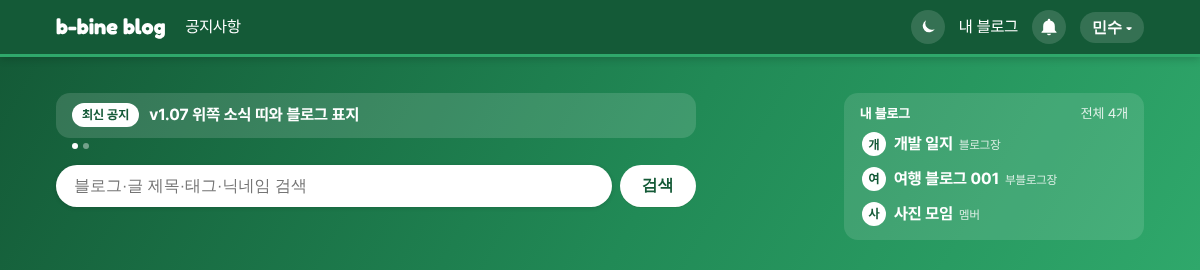
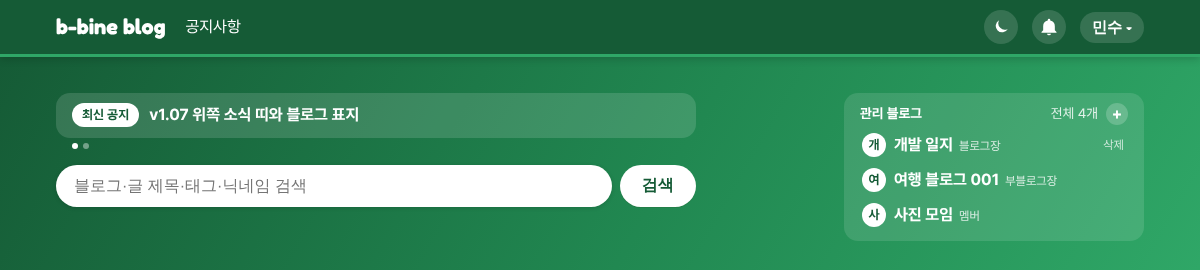
위쪽 띠 오른쪽을 '관리 블로그'로, + 버튼(블로그 만들기)과 블로그장 블로그 삭제(폐쇄 화면으로) 추가 (D-117, BLG-09)
Claude-Session: https://claude.ai/code/session_019Vb8HvN1w7aCh1FhFDLzpU

diff --git a/src/main/resources/static/js/hero-my-blogs.js b/src/main/resources/static/js/hero-my-blogs.js
@@ -1,4 +1,4 @@
-// 메인 위쪽 띠 오른쪽의 내 블로그 (2026-10-13 사용자 요청, BLG-06).
+// 메인 위쪽 띠 오른쪽의 관리 블로그 (2026-10-13 사용자 요청, BLG-06, D-117). + 버튼은 블로그 만들기, 블로그장 블로그에는 삭제(폐쇄) 링크.
 // 로그인하지 않았거나 운영·참여하는 블로그가 없으면 아무것도 보여 주지 않는다. 글자는 textContent로만 넣는다(D-64).
 (function () {
   'use strict';
@@ -17,6 +17,7 @@
   }
 
   function renderItem(blog) {
+    var row = el('div', 'hero-mine__row');
     var a = el('a', 'hero-mine__item');
     a.href = '/blog/' + encodeURIComponent(blog.address);
     a.appendChild(el('span', 'hero-mine__initial', Array.from(blog.name || '?')[0]));
@@ -24,7 +25,15 @@
     text.appendChild(el('span', 'hero-mine__name', blog.name));
     text.appendChild(el('span', 'hero-mine__role', ROLE_LABEL[blog.role] || ''));
     a.appendChild(text);
-    return a;
+    row.appendChild(a);
+    // 삭제는 블로그장만. 바로 지우지 않고 운영 화면의 위임·폐쇄 탭으로 보낸다(7일 뒤 폐쇄, 그 전 철회 가능 — FR-066~FR-078)
+    if (blog.role === 'OWNER' && blog.status === 'ACTIVE') {
+      var del = el('a', 'hero-mine__delete', '삭제');
+      del.href = '/blog/' + encodeURIComponent(blog.address) + '/manage?tab=owner';
+      del.setAttribute('aria-label', blog.name + ' 블로그 삭제(폐쇄)');
+      row.appendChild(del);
+    }
+    return row;
   }
 
   // 로그인하지 않았으면 401이 오고, 빈 곳으로 둔다
@@ -34,15 +43,23 @@
     if (!blogs.length) { return; }
     var head = el('div', 'hero-mine__head');
     // 제목을 누르면 내가 처음 만든 블로그로, 만든 블로그가 없으면 내 정보의 내 블로그로 간다
-    var title = el('a', 'hero-mine__title', '내 블로그');
+    var title = el('a', 'hero-mine__title', '관리 블로그');
     title.href = res.owned && res.owned.length
       ? '/blog/' + encodeURIComponent(res.owned[0].address) : '/me/index.html#blogs';
     head.appendChild(title);
+    var tools = el('span', 'hero-mine__tools');
     if (blogs.length > MAX_ITEMS) {
       var all = el('a', 'hero-mine__all', '전체 ' + blogs.length + '개');
       all.href = '/me/index.html#blogs';
-      head.appendChild(all);
+      tools.appendChild(all);
     }
+    // + 버튼: 블로그 만들기. 만들 수 있는 개수는 서버가 확인한다(D-68)
+    var add = el('a', 'hero-mine__add', '+');
+    add.href = '/blogs/new.html';
+    add.title = '블로그 만들기';
+    add.setAttribute('aria-label', '블로그 만들기');
+    tools.appendChild(add);
+    head.appendChild(tools);
     box.appendChild(head);
     blogs.slice(0, MAX_ITEMS).forEach(function (b) { box.appendChild(renderItem(b)); });
     box.hidden = false;

diff --git a/src/main/resources/static/css/base.css b/src/main/resources/static/css/base.css
@@ -627,6 +627,14 @@ main.home { grid-template-columns: minmax(0, 1fr); }
 .hero-mine__head { display: flex; justify-content: space-between; align-items: center; padding: 0 4px 2px; font-size: 0.85rem; }
 .hero-mine__title { font-weight: 700; color: #fff; text-decoration: none; }
 .hero-mine__title:hover { color: #fff; text-decoration: underline; }
+.hero-mine__tools { display: flex; align-items: center; gap: 8px; }
+.hero-mine__add { display: grid; place-items: center; width: 22px; height: 22px; border-radius: 50%; background: rgba(255,255,255,.2);
+  color: #fff; font-size: 1rem; font-weight: 700; line-height: 1; text-decoration: none; }
+.hero-mine__add:hover { background: rgba(255,255,255,.35); color: #fff; }
+.hero-mine__row { display: flex; align-items: center; gap: 4px; min-width: 0; }
+.hero-mine__row .hero-mine__item { flex: 1; }
+.hero-mine__delete { flex-shrink: 0; padding: 2px 8px; border-radius: 999px; font-size: 0.75rem; color: rgba(255,255,255,.75); text-decoration: none; }
+.hero-mine__delete:hover { background: rgba(255,255,255,.18); color: #fff; }
 .hero-mine__all { color: rgba(255,255,255,.85); text-decoration: none; }
 .hero-mine__all:hover { color: #fff; text-decoration: underline; }
 .hero-mine__item { display: flex; align-items: center; gap: 8px; min-width: 0; padding: 4px 6px; border-radius: 10px; color: #fff; text-decoration: none; }

diff --git a/docs/03-decisions/D-117.md b/docs/03-decisions/D-117.md
@@ -6,7 +6,9 @@
 
 ## 결정
 1. 메인 위쪽 띠의 제목("함께 쓰는 블로그")과 안내 문구를 화면에서 빼고, 소식 띠를 맨 위에 둔다. 제목은 화면 읽기용으로만 남긴다. 소식 띠 아래 점은 작게(6px) 해서 띠 바로 아래에 붙인다.
-2. 띠 오른쪽 빈 곳에 내 블로그를 최대 3개 보여 준다. 로그인하지 않았거나 블로그가 없으면 비워 둔다. 휴대폰처럼 좁은 화면에서는 숨긴다.
+2. 띠 오른쪽 빈 곳에 "관리 블로그" 상자로 내 블로그를 최대 3개 보여 준다. 로그인하지 않았거나 블로그가 없으면 비워 둔다. 휴대폰처럼 좁은 화면에서는 숨긴다.
+   - 제목 옆 + 버튼은 블로그 만들기로 간다(만들 수 있는 개수는 서버가 확인).
+   - 블로그장인 블로그 줄에는 "삭제"가 있고, 바로 지우지 않고 운영 화면의 위임·폐쇄 탭으로 보낸다(7일 뒤 폐쇄, 그 전 철회 가능, FR-066~FR-078).
 3. 내 블로그(`/api/me/blogs`, 내 정보의 내 블로그, 띠 오른쪽 상자)는 블로그가 만들어진 순서(오래된 것부터)로 보여 준다.
 4. 띠 오른쪽 상자 제목을 누르면 내가 처음 만든 블로그로 간다. 만든 블로그가 없으면 내 정보의 내 블로그로 간다.
 5. 머리 메뉴(다크 모드 옆)의 "내 블로그" 링크를 뺀다. 운영·참여하는 블로그 목록과 "블로그 만들기"는 내 정보 화면(`/me/index.html#blogs`)에 합친다. 예전 주소 `/me/blogs.html`은 그쪽으로 보낸다. 블로그가 없을 때 프로필 메뉴의 "블로그 만들기"(D-109)는 그대로 둔다.
@@ -17,7 +19,7 @@
    - 서버 작업은 없다(`theme.js`, `base.css`). 확인용으로 주소에 `?hour=14`를 붙이면 그 시각의 색을 보여 준다.
 
 ## 이유
-사용자가 2026-10-13에 요청함: 제목·안내 문구를 빼고 소식 띠를 올리고 점을 작게 붙일 것, 빈 곳에 자신의 블로그를 띄우고 없으면 비워 둘 것, 내 블로그는 생성된 순서로 하고 누르면 내가 만든 블로그가 보이게 할 것, 다크 모드 옆 내 블로그를 빼고 내 정보에서 관리하는 블로그와 블로그 추가를 합칠 것, 아침 파랑·점심 초록·저녁 빨강으로 전체 색이 자연스럽게 바뀔 것(시간 구간은 사용자가 정함).
+사용자가 2026-10-13에 요청함: 제목·안내 문구를 빼고 소식 띠를 올리고 점을 작게 붙일 것, 빈 곳에 자신의 블로그를 띄우고 없으면 비워 둘 것, 내 블로그는 생성된 순서로 하고 누르면 내가 만든 블로그가 보이게 할 것, 상자 이름을 관리 블로그로 하고 추가(+)·삭제 버튼을 둘 것, 다크 모드 옆 내 블로그를 빼고 내 정보에서 관리하는 블로그와 블로그 추가를 합칠 것, 아침 파랑·점심 초록·저녁 빨강으로 전체 색이 자연스럽게 바뀔 것(시간 구간은 사용자가 정함).
 
 ## 이전 내용 → 바꾼 이유
 - D-116 1번 "소개 문구 아래에 소식 한 줄" → 소개 문구를 빼고 소식 띠를 맨 위로(사용자 요청).

diff --git a/release-notes/2026-10-13-daytime-colors/notice.md b/release-notes/2026-10-13-daytime-colors/notice.md
@@ -6,7 +6,7 @@
 ![시간대별 색](colors.png)
 
 ## 위쪽 띠가 깔끔해지고 내 블로그가 보여요
-메인 위쪽 띠의 제목과 안내 문구를 빼고 소식 띠를 맨 위로 올렸습니다. 로그인하면 오른쪽에 내 블로그가 최대 3개 보이고, 블로그가 없으면 비어 있어요. (넓은 화면에서만 보여요.)
+메인 위쪽 띠의 제목과 안내 문구를 빼고 소식 띠를 맨 위로 올렸습니다. 로그인하면 오른쪽 "관리 블로그"에 내 블로그가 최대 3개 보이고, 블로그가 없으면 비어 있어요. + 버튼으로 블로그를 만들고, 내가 블로그장인 블로그는 "삭제"로 폐쇄 화면에 갈 수 있어요. (넓은 화면에서만 보여요.)
 
 ![내 블로그](my-blogs.png)
 
